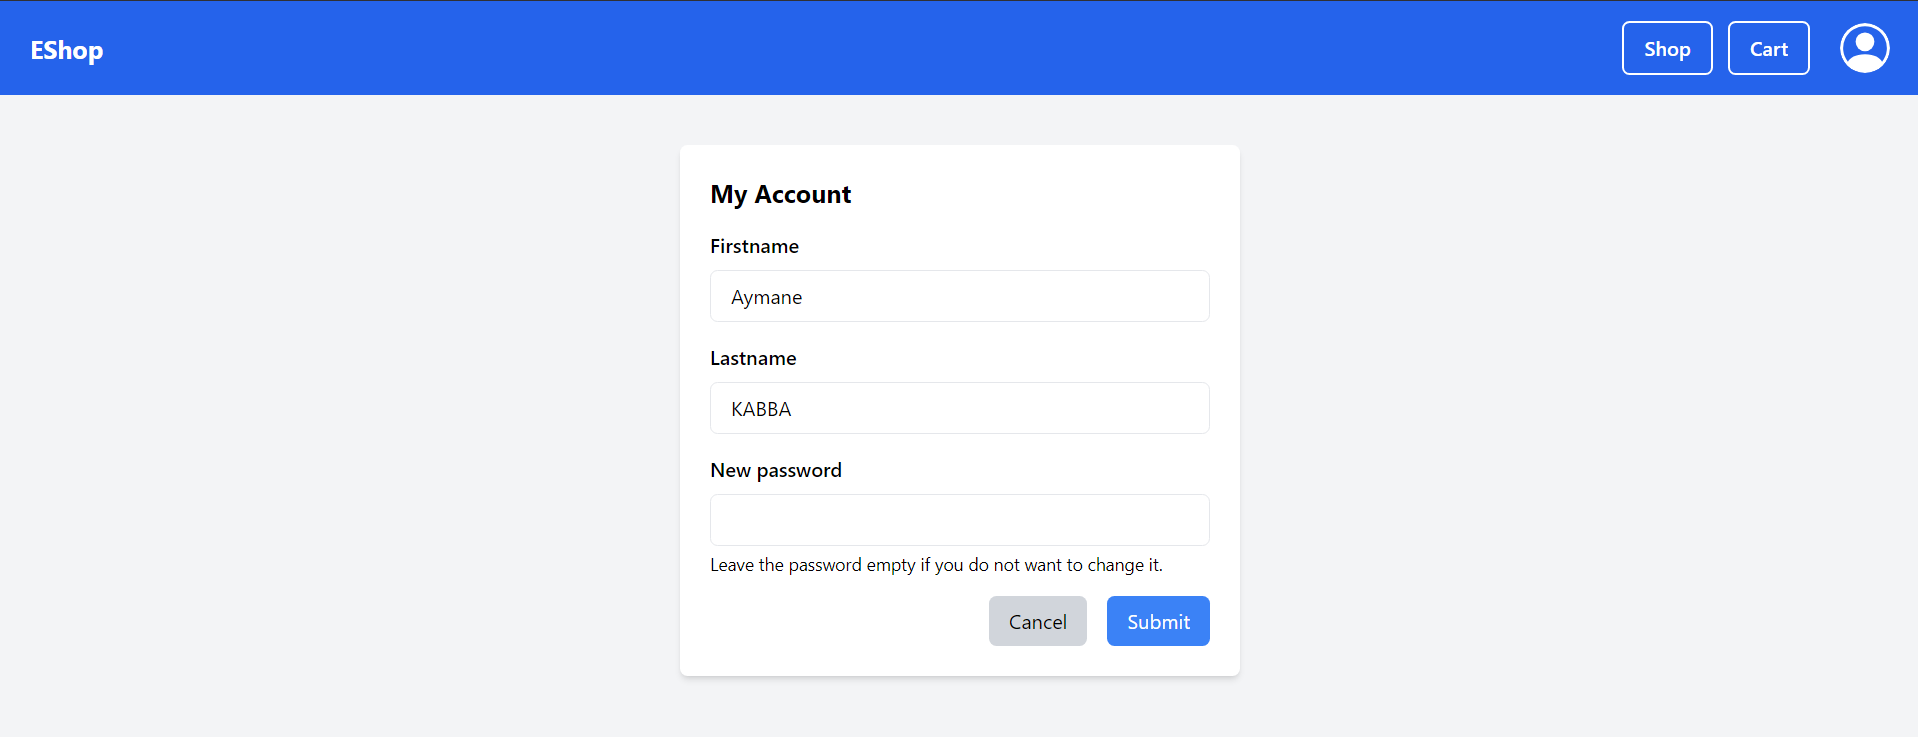
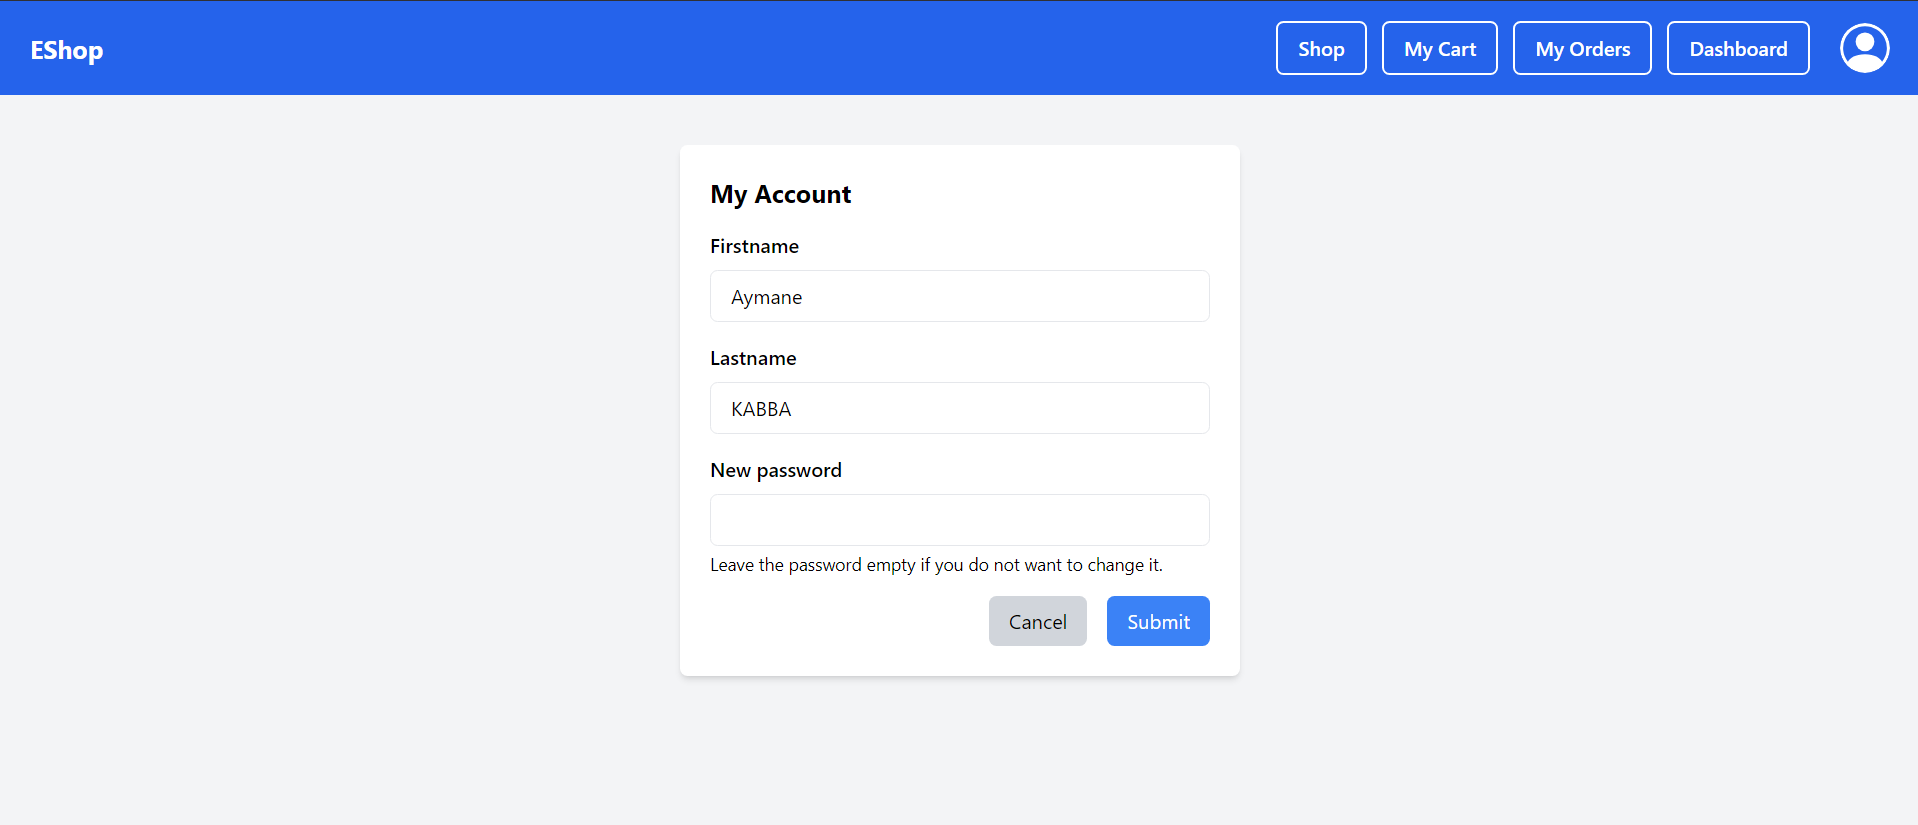
Docker dev environment

Changed region(s): [[0.0, 0.0, 1.0, 0.156], [0.3691, 0.6242, 0.646, 0.8738], [0.3691, 0.2185, 0.4614, 0.5929]]

diff --git a/frontend/src/layouts/Layout.tsx b/frontend/src/layouts/Layout.tsx
@@ -54,8 +54,22 @@ export default function Layout({ children }: React.PropsWithChildren<{}>) {
                      onClick={() => navigate("/cart")}
                      className="hover:bg-blue-400 border-2 cursor-pointer border-white bo px-4 py-2 flex items-center justify-center rounded-md font-semibold"
                   >
-                     Cart
+                     My Cart
                   </div>
+                  <div
+                     onClick={() => navigate("/orders")}
+                     className="hover:bg-blue-400 border-2 cursor-pointer border-white bo px-4 py-2 flex items-center justify-center rounded-md font-semibold"
+                  >
+                     My Orders
+                  </div>
+                  {(role.isAdmin || role.isSeller) && (
+                     <div
+                        onClick={() => navigate("/dashboard")}
+                        className="hover:bg-blue-400 border-2 cursor-pointer border-white bo px-4 py-2 flex items-center justify-center rounded-md font-semibold"
+                     >
+                        Dashboard
+                     </div>
+                  )}
                </div>
                <div className="relative flex gap-4 items-center justify-center" ref={dropdownRef}>
                   <button onClick={toggleDropdown} className="focus:outline-none flex items-center gap-2">
@@ -69,42 +83,11 @@ export default function Layout({ children }: React.PropsWithChildren<{}>) {
                         }}
                         className="dropdown-menu border absolute right-0 top-[50px] mt-2 w-40 bg-white rounded-md shadow-lg text-gray-700 z-10"
                      >
-                        {role.isClient && (
-                           <>
-                              {/* <li>
-                                 <Link to="/cart" className="font-semibold block px-4 py-2 rounded-md hover:bg-gray-200">
-                                    My Cart
-                                 </Link>
-                              </li> */}
-                              <li>
-                                 <Link to="/orders" className="font-semibold block px-4 py-2 rounded-md hover:bg-gray-200">
-                                    My Orders
-                                 </Link>
-                              </li>
-                           </>
-                        )}
-                        {(role.isAdmin || role.isSeller) && (
-                           <li>
-                              <Link to="/dashboard" className="font-semibold block px-4 py-2 rounded-md hover:bg-gray-200">
-                                 Dashboard
-                              </Link>
-                           </li>
-                        )}
                         <li>
                            <Link to="/myaccount" className="font-semibold block px-4 py-2 rounded-md hover:bg-gray-200">
                               My Account
                            </Link>
                         </li>
-                        {/* <li>
-                           <button
-                              onClick={() => {
-                                 console.log(JSON.stringify(value, null, 2));
-                              }}
-                              className="block w-full text-left px-4 py-2 hover:bg-gray-200"
-                           >
-                              log context
-                           </button>
-                        </li> */}
                         <li>
                            <button onClick={logoutHandler} className="font-semibold block w-full text-left px-4 py-2 hover:bg-gray-200">
                               Logout

diff --git a/backend/prisma/seed.js b/backend/prisma/seed.js
@@ -1,0 +1,62 @@
+const { PrismaClient } = require('@prisma/client');
+const prisma = new PrismaClient();
+
+async function main() {
+  await prisma.user.createMany({
+    data: [
+      {
+        id: 1,
+        email: 'allroles@eshop.com',
+        password:
+          '$argon2id$v=19$m=65536,t=3,p=4$PAZHZvm2Q/xYSlV2OckeGQ$0ldiCe8ngt45Dh43Iabns3bypfX6VTMP5LimFS9KBdA',
+        firstname: 'Yassine',
+        lastname: 'Tiatro',
+        address: '9 RUE MAURICE ROY',
+        roles: ['CLIENT', 'SELLER', 'ADMIN'],
+      },
+      {
+        id: 2,
+        email: 'client@eshop.com',
+        password:
+          '$argon2id$v=19$m=65536,t=3,p=4$Eiv3bcgE4y54v+GLFdivUg$e4qgCRDZd1NxZJYdjeZL5zlfc7Kng7wTqOnby5YNrnk',
+        firstname: 'Aymane',
+        lastname: 'Kabba',
+        address: '74 Rue de Turly',
+        roles: ['CLIENT'],
+      },
+    ],
+  });
+
+  await prisma.cart.createMany({
+    data: [
+      { id: 1, userId: 1 },
+      { id: 2, userId: 2 },
+    ],
+  });
+
+  await prisma.product.createMany({
+    data: [
+      {
+        id: 1,
+        picture: 'none.jpeg',
+        name: 'Play5',
+        price: 600,
+        stock: 124,
+      },
+      {
+        id: 2,
+        picture: 'none.jpeg',
+        name: 'Iphone 16',
+        price: 1100,
+        stock: 163,
+      },
+    ],
+  });
+}
+
+main()
+  .then(() => console.log('Database seeded successfully!'))
+  .catch((e) => console.error('Error seeding the database:', e))
+  .finally(async () => {
+    await prisma.$disconnect();
+  });

diff --git a/README.md b/README.md
@@ -1,6 +1,58 @@
-# Explication du Code
-
 ## Configuration de l'environnement de développement
+
+## Avec Docker
+
+L'application est entièrement dockerisée pour simplifier le développement. Voici les étapes pour exécuter les conteneurs Docker.
+
+NB: Assurez-vous que Docker et Docker Compose sont installés sur votre machine.
+
+### Construire les images Docker
+
+Dans le dossier racine du projet (où se trouvent vos fichiers docker-compose.yml), exécutez la commande suivante pour construire les images :
+
+```bash
+docker-compose build
+```
+
+### Démarrer les conteneurs
+
+Pour démarrer l'application, exécutez :
+
+```bash
+docker-compose up
+```
+
+Cette commande démarre tous les services nécessaires :
+
+- Le serveur backend (Nest.js)
+- Le serveur frontend (React)
+- La base de données PostgreSQL
+
+Une fois que tout est en place, l'application est accessible sur http://localhost:5173
+
+#### Authentification et Autorisation
+Deux comptes utilisateurs sont déjà existants dans la base de données pour les tests :
+
+Compte administrateur avec tous les privilèges (admin, client, vendeur) :
+
+Email : allroles@eshop.com
+Mot de passe : 0000
+
+Compte client simple :
+
+Email : client@eshop.com
+Mot de passe : 0000
+
+### Arrêter mes conteneurs
+
+Pour arrêter les conteneurs, exécutez :
+
+```bash
+docker-compose down
+
+```
+
+## Sans Docker
 
 ### Les fichiers `.env`
 
@@ -35,6 +87,7 @@ Exécutez cette commande dans le dossier frontend :
 ```bash
 npm run dev
 ```
+
 
 ## Authentification et Autorisation
 
@@ -181,6 +234,7 @@ Le tableau de bord des vendeurs affiche les commandes en attente, les produits e
 
 ![Screenshot 3bis - Dashboard pour les vendeurs/admins](screenshots/adminProducts.png)
 
+![Screenshot 3bis_ - Dashboard pour les vendeurs/admins](screenshots/adminOrders2.png)
 ---
 
 ### **4. Gestion du panier pour les clients**
@@ -206,11 +260,9 @@ Les clients peuvent consulter les détails de leurs commandes et imprimer une fa
 
 ![Screenshot 6 - Détails des commandes](screenshots/myordersClient.png)
 
-En cliquant sur la commande:
+En cliquant sur la commande (la case bleue):
 
 ![Screenshot 6bis - Print invoice](screenshots/clique.png)
-
-![Screenshot 6bis_ - Print invoice](screenshots/print.png)
 
 ![Screenshot 6bis__ - Print invoice](screenshots/invoice.png)
 
@@ -230,8 +282,8 @@ Les utilisateurs peuvent modifier leurs informations:
 
 ### **8. Authorized Page
 
-Cette page a pour but de démontrer que l'admin/seller n'a pas le droit de consulter un panier, d'où l'affichage de ce message:
+Cette page a pour but de démontrer que l'admin/seller n'a pas le droit de consulter un panier (le clique sur My Cart é My Orders), d'où l'affichage de ce message:
 
-![Screenshot 9 - Unauthorized Page](screenshots/adminUn.png)
+![Screenshot 9 - Unauthorized Page](screenshots/notauthorized.png)
 
 ![Screenshot 9 - Modifier informations client](screenshots/adminUnBis.png)
